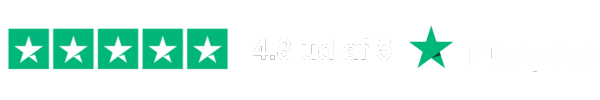
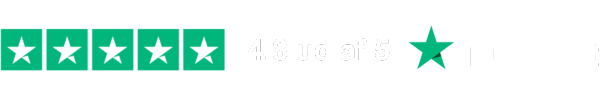
lagt till i bannern

diff --git a/components/ui/PromotionBanner.tsx b/components/ui/PromotionBanner.tsx
@@ -12,7 +12,8 @@ interface PromotionBannerItem {
 
 const PromotionBanner = () => {
   const [bannerContent, setBannerContent] = useState<PromotionBannerItem[]>([]);
-  const { lang } = useLang();  // Hämta det aktuella språket
+  const { text, lang } = useLang();  // Hämta både text och språk från useLang
+  const [promotionText, setPromotionText] = useState(text.promotionbanner.promotiontext); // Hämta promotionText baserat på språket
 
   useEffect(() => {
     const fetchBannerContent = async () => {
@@ -26,7 +27,8 @@ const PromotionBanner = () => {
     };
 
     fetchBannerContent();
-  }, []);
+    setPromotionText(text.promotionbanner.promotiontext);  // Uppdatera promotionText när text ändras
+  }, [text]);
 
   // Bestäm Trustpilot-bilden baserat på språkkoden
   let trustpilotImage = "/images/trustpilot-en.png"; // Standardbild om inget språk matchar
@@ -51,19 +53,32 @@ const PromotionBanner = () => {
         <div dangerouslySetInnerHTML={{ __html: bannerContent[0].content.html }} />
       )}
 
-      {/* Dynamisk Trustpilot-bild */}
-      <div className="flex justify-center mt-0 max-w-screen-md mx-auto">
+      {/* Dynamisk Trustpilot-bild och promotionText */}
+      <div className="flex items-center justify-center mt-0 max-w-screen-md mx-auto">
+        {/* Trustpilot-bilden länkar till Trustpilot */}
         <a
           href="https://se.trustpilot.com/review/saveabl.se"
           target="_blank"
           rel="noopener noreferrer"
+          className="flex items-center ml-3"
         >
           <Image
             src={trustpilotImage}  // Dynamisk bild baserat på språket
             alt="Trustpilot"
-            width={250}  // Justera bredden för att göra bilden större
-            height={30}  // Justera höjden för att göra bilden större
+            width={250}  // Justera bredden
+            height={30}  // Justera höjden
           />
+        </a>
+        {/* Lodrätt streck */}
+        <div className="ml-2 mr-2 h-5 border-l border-white border-primary-200"></div>
+        {/* Länktext som länkar till eubusinessnews */}
+        <a
+          href="https://www.eubusinessnews.com/winners/saveabl/"
+          target="_blank"
+          rel="noopener noreferrer"
+          className="text-xs mt-2 mb-2 text-white text-primary-200 hover:underline transition-all font-sans"  // Mindre text med hover-effekt
+        >
+          {promotionText}
         </a>
       </div>
     </div>
@@ -71,6 +86,4 @@ const PromotionBanner = () => {
 };
 
 export default PromotionBanner;
-
-
 

diff --git a/providers/LangProvider.tsx b/providers/LangProvider.tsx
@@ -636,6 +636,9 @@ popup: {
     not_found: "Vi kunde inte hitta dig som kund :( Kontakta oss gärna om vi har fel!",
     copy_success: "Koden är kopierad!",
     copy_fail: "Misslyckades att kopiera koden"
+  }, 
+  promotionbanner: {
+    promotiontext: "Bästa klimatvänliga matkassen enligt EU Business news"
   }
   
 };
@@ -1147,8 +1150,10 @@ const enText = {
       not_found: "We couldn't find you as a customer :( Please contact us if this is a mistake!",
       copy_success: "The code has been copied!",
       copy_fail: "Failed to copy the code"
+    },
+    promotionbanner: {
+      promotiontext: "Best Eco-Friendly meal kit per EU Business news"
     }
-  
 };
 
 const daText = {
@@ -1631,5 +1636,8 @@ integrity_policy: {
     not_found: "Vi kunne ikke finde dig som kunde :( Kontakt os gerne, hvis vi tager fejl!",
     copy_success: "Koden er kopieret!",
     copy_fail: "Kunne ikke kopiere koden"
+  }, 
+  promotionbanner: {
+    promotiontext: "Bedste miljøvenlige måltidskasse ifølge EU Business news"
   }
 };
